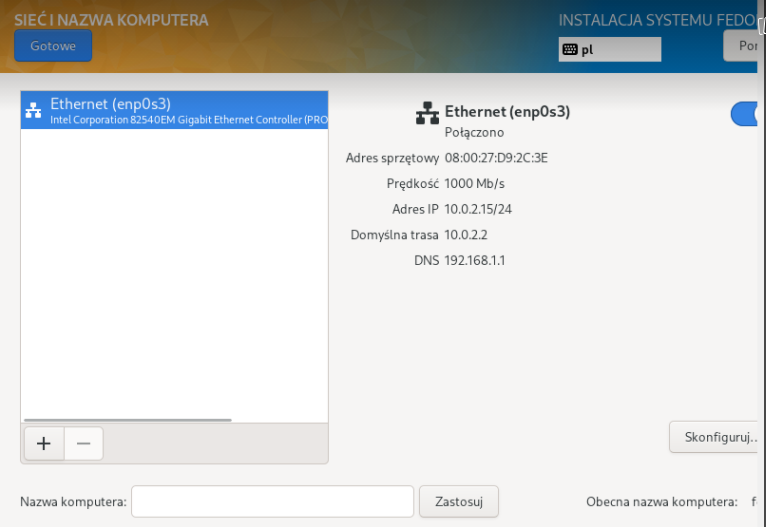
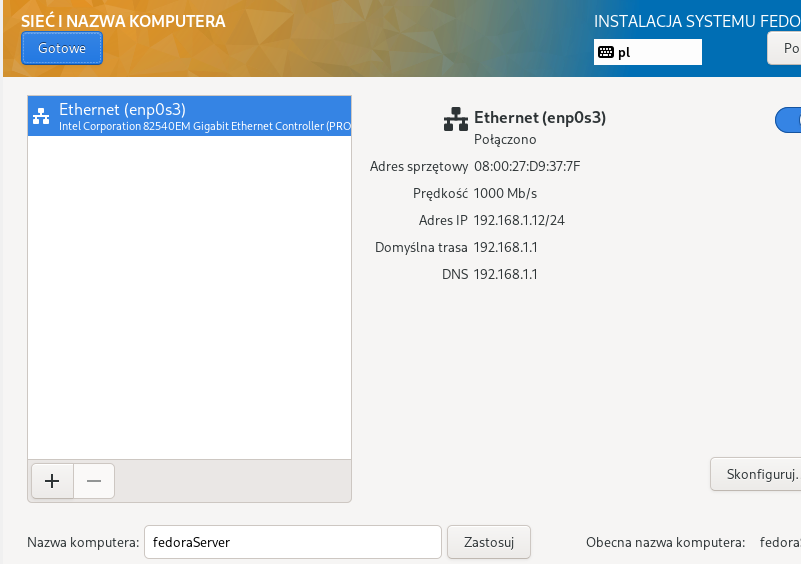
MS400200
lab9

Changed region(s): [[0.0, 0.0, 1.0, 1.0], [0.03, 0.9108, 0.6606, 1.0], [0.03, 0.7894, 0.4504, 0.9108]]

diff --git a/ITE/GCL08/MS400200/lab9/sprawozdanie.md b/ITE/GCL08/MS400200/lab9/sprawozdanie.md
@@ -1,0 +1,63 @@
+# Sprawozdanie Lab09 Michał Szymański ITE-GCL08
+
+
+## Cel ćwiczenia
+Przygotowanie systemu pod uruchomienie, Instalacja nienadzorowana, Infrastructure as a code
+
+## Przygotowanie systemu pod uruchomienie
+Pobrano obraz Fedory '''Fedora-Server-netinst-x86_64-36-1.5''' i przeprowadzono jego instalację:
+![1](1.PNG)
+![2](2.PNG)
+![3](3.PNG)
+![roota](konto_roota.PNG)
+
+Następnie sprawdzono adres IP maszyny, w celu pobrania pliku `anaconda-ks.cfg` przez SSH za pomocą  WinScp:
+![4](4.PNG)
+![5](5.PNG)
+
+## Instalacja serwera Fedory
+Instalacja w ten sam sposób jak powyżej, zmieniono jedynie nazwę urządzenia.
+
+- Instalacja httpd:
+![6](6.PNG)
+
+- Dodanie reguł firewalla oraz przeładowanie go:
+![7](7.PNG)
+
+- Sprawdzenie statusu usługi httpd:
+![8](8.PNG)
+
+- Adres IP sprawdzono w celu przesłania artefaktu przez WinScp do serwera:
+![9](9.PNG)
+![10](10.PNG)
+
+- Stworzono folder html dla artefaktu i skopiowano do niego paczkę:
+![11](11.PNG)
+
+
+## Pobranie artefaktu z serwera:
+
+- Zainstalowano pakiet wget i pobrano artefakt:
+![12](12.PNG)
+
+## Instalacja nienadzorowana
+
+Zmodyfikowano plik '''anaconda-ks.cfg''':
+    - Tryb instalacji tekstowy,
+    - Dodanie repozytoriów Fedory,
+    - Dodanie pakietów wget i python3,
+    - Sekcja post, w której pobierany jest artefakt z serwera.
+
+Uruchomiono instalację za pomocą komendy:
+
+`vmlinuz initrd=initrd.img inst.stage2=hd:LABEL=Fedora-S-dvd-x86_64-36 inst.ks=https://raw.githubusercontent.com/InzynieriaOprogramowaniaAGH/MDO2022_S/MS400200/ITE/GCL08/MS400200/lab9/anaconda-ks.cfg`
+
+
+
+
+
+
+
+
+
+
